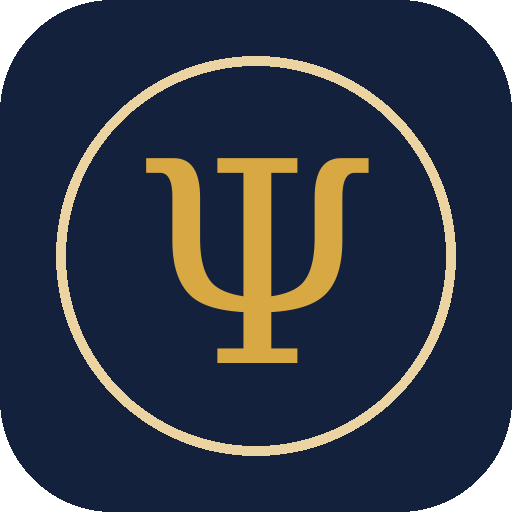
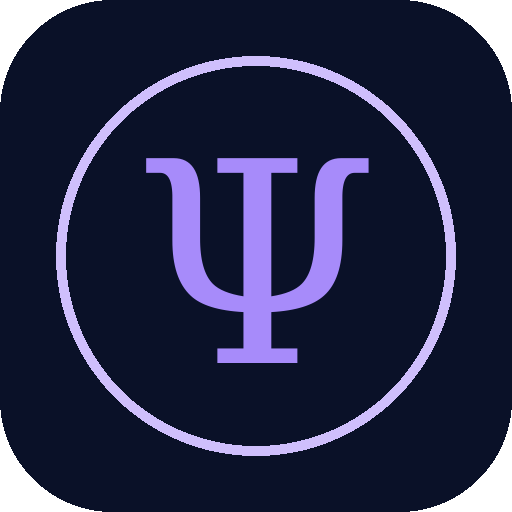
Visual: roxo no lugar do dourado, azul mais escuro, cabeçalho azul-noite nos dois modos

Changed region(s): [[0.0938, 0.0938, 0.9062, 0.9062], [0.2812, 0.2812, 0.7188, 0.7188]]

diff --git a/app/estilo.css b/app/estilo.css
@@ -4,33 +4,37 @@
   --texto: #1d2333;
   --suave: #5d6475;
   --linha: #e2d9c3;
-  --primaria: #14213d;     /* lápis-lazúli */
+  --primaria: #0a1128;     /* azul-noite */
   --primaria-txt: #fff;
-  --ouro: #b8862b;
-  --ouro-claro: #f3e3bd;
+  --ouro: #7c3aed;          /* roxo */
+  --ouro-claro: #ede4fb;
   --certo: #1f7a4d;
   --certo-fundo: #dff3e7;
   --errado: #b3261e;
   --errado-fundo: #fbe1de;
-  --sombra: 0 1px 3px rgba(20, 33, 61, .12);
+  --sombra: 0 1px 3px rgba(10, 17, 40, .12);
   --raio: 14px;
+  --topo: #0a1128;
+  --topo-txt: #fff;
 }
 @media (prefers-color-scheme: dark) {
   :root {
-    --fundo: #0f1524;
-    --cartao: #182036;
+    --fundo: #080c1a;
+    --cartao: #111830;
     --texto: #ece6d6;
     --suave: #a3a9ba;
-    --linha: #2a3452;
-    --primaria: #d8a943;
-    --primaria-txt: #14213d;
-    --ouro: #e0b558;
-    --ouro-claro: #3a3222;
+    --linha: #252e4d;
+    --primaria: #a78bfa;
+    --primaria-txt: #0a1128;
+    --ouro: #b794f6;
+    --ouro-claro: #2a2145;
     --certo: #5fd396;
     --certo-fundo: #173a2a;
     --errado: #ff8a80;
     --errado-fundo: #43201e;
     --sombra: 0 1px 3px rgba(0, 0, 0, .4);
+    --topo: #101a3d;
+    --topo-txt: #ece6f8;
   }
 }
 * { box-sizing: border-box; }
@@ -45,7 +49,7 @@ a { color: var(--ouro); }
 
 .topo {
   position: sticky; top: 0; z-index: 5; display: flex; align-items: center; gap: 8px;
-  padding: calc(10px + env(safe-area-inset-top)) 16px 10px; background: var(--primaria); color: var(--primaria-txt);
+  padding: calc(10px + env(safe-area-inset-top)) 16px 10px; background: var(--topo); color: var(--topo-txt); border-bottom: 2px solid var(--ouro);
 }
 .topo h1 { font-size: 1.15rem; margin: 0; flex: 1; min-width: 0; white-space: nowrap; overflow: hidden; text-overflow: ellipsis; letter-spacing: .3px; font-family: Georgia, "Times New Roman", serif; }
 .voltar { background: none; border: 0; color: inherit; font-size: 1.8rem; line-height: 1; padding: 0 8px 0 0; cursor: pointer; }

diff --git a/app/sw.js b/app/sw.js
@@ -1,5 +1,5 @@
 // PsyTote service worker: app offline; banco de questões busca versão nova quando há internet.
-const VERSAO = 'psytote-v3';
+const VERSAO = 'psytote-v4';
 const CASCA = ['./', 'index.html', 'estilo.css', 'app.js', 'manifest.webmanifest', 'icones/icone.svg', 'icones/icone-192.png', 'icones/icone-512.png', 'dados/banco.json'];
 self.addEventListener('install', e => { e.waitUntil(caches.open(VERSAO).then(c => c.addAll(CASCA)).then(() => self.skipWaiting())); });
 self.addEventListener('activate', e => { e.waitUntil(caches.keys().then(ks => Promise.all(ks.filter(k => k !== VERSAO).map(k => caches.delete(k)))).then(() => self.clients.claim())); });

diff --git a/app/index.html b/app/index.html
@@ -5,7 +5,7 @@
 <meta name="viewport" content="width=device-width, initial-scale=1, viewport-fit=cover">
 <title>PsyTote</title>
 <meta name="description" content="Estudos para o concurso de Psicóloga(o) do CRP/05 – FGV">
-<meta name="theme-color" content="#14213d">
+<meta name="theme-color" content="#0a1128">
 <meta name="robots" content="noindex, nofollow">
 <link rel="manifest" href="manifest.webmanifest">
 <link rel="icon" href="icones/icone.svg" type="image/svg+xml">
